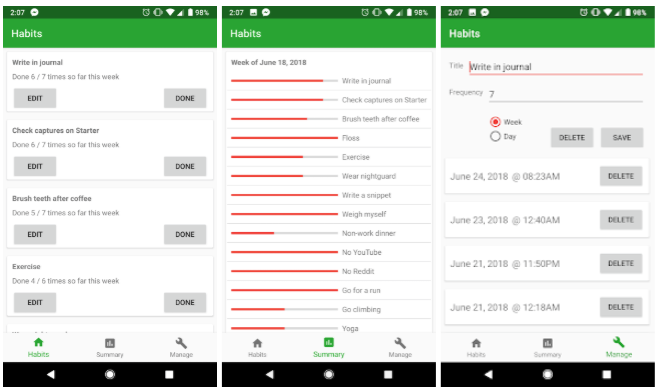
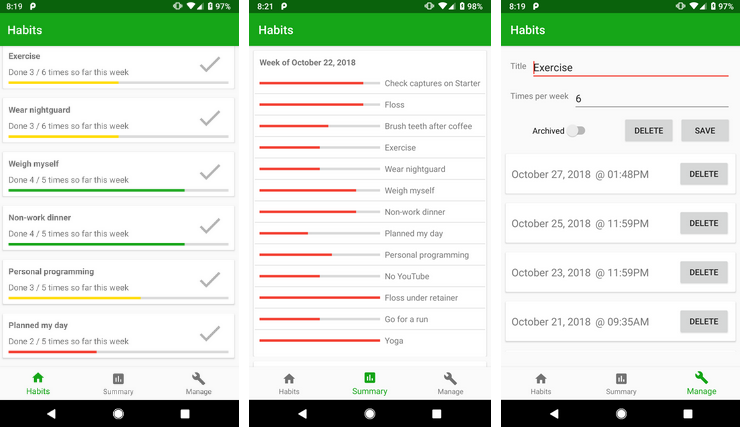
initial release time

diff --git a/README.md b/README.md
@@ -1,16 +1,35 @@
-# habits
-An android habit-tracking app
+Habits
+=====
+An Android habit-tracking app
 
 ![Screenshot](/screenshot.png?raw=true "Screenshot")
 
-## Features
+## Privacy
+- This app never sends any of your data anywhere (currently, there are no network calls in the
+  codebase!).
+- I will never add ads to this application or send your data anywhere.
+- If the app asks for an unexpected permission please submit a pull request! It should only ask
+  to store data locally and send you a reminder location (see TODO below to let this be diabled)
+
+## Controls
+- Long press on a habit to enter the "edit" menu for it.
+- Tap on an event's date or time to edit when it happened.
+
+## Detailed Features
 - Ability to add, edit, delete habits with customizable frequency (per week)
-- Daily push notification reminders to fill out habit status
+- Daily push notification reminders to fill out habit status (currently at 11pm, see TODO below)
 - Summary view to track how your habit formation is going
+- Color-coded progress bars on habits to identify which ones you're behind on
+- Ability to archive habits after they've formed, or if you want to ignore them for now.
+- Ability to tweak all logged events (in case you forget or accidentally tap)
+- Log events marked "Done" near midnight to the previous day (tunable soon, see TODO below).
 
 ## TODO
-- Move DB calls off the main thread
-- Optimized Event queries (to not fetch the world all the time).
-- Better styling for done habits
-- More frequency options for habits
-
+- Tests :)
+- Move DB calls off the main thread. Looks like this requires some "LiveData", but it seems
+  tolerable on my device
+- Pagination of Summary page. Right now it returns the most recent 6 weeks, but I need to let it
+  fetch more if you scroll to the bottom.
+- A settings page! First up: configurable reminder notification time and near-midnight thresholds.
+- Next setting up: The ability to disable notifications
+- Export to a parsable format (probably CSV?)
